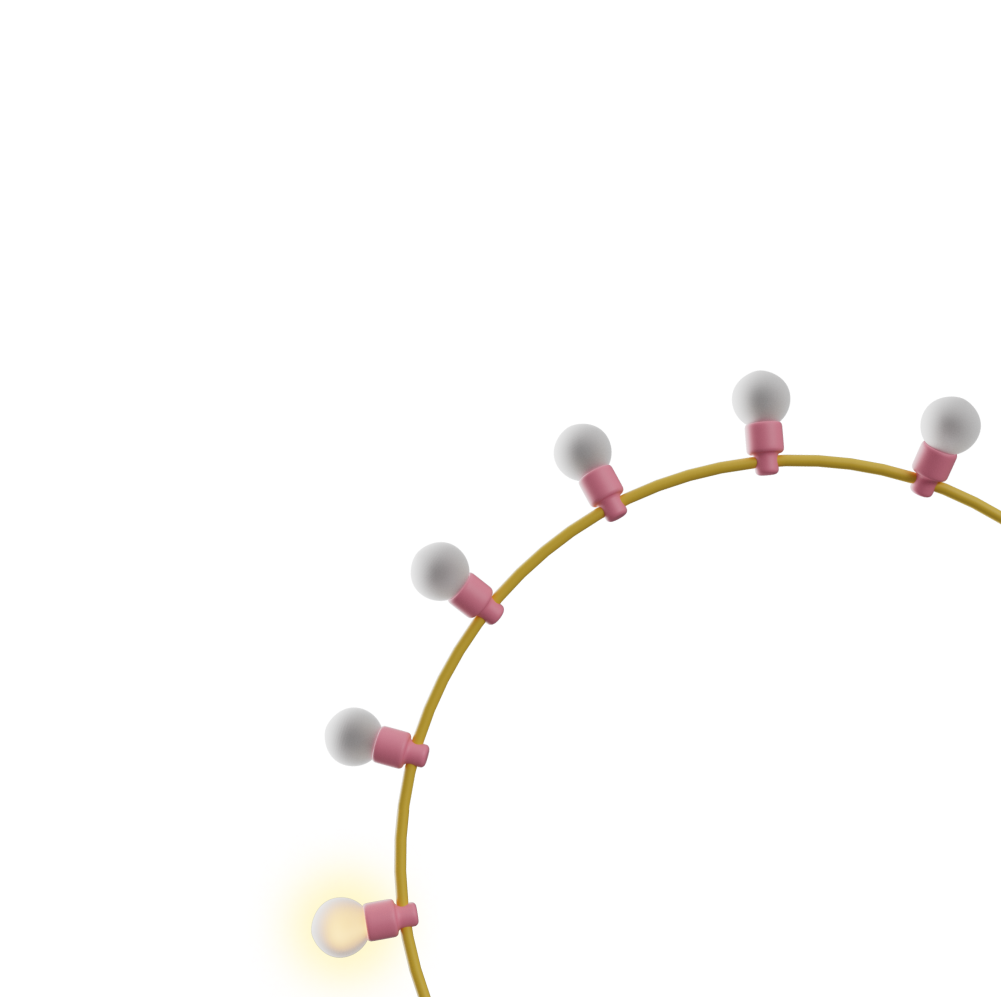
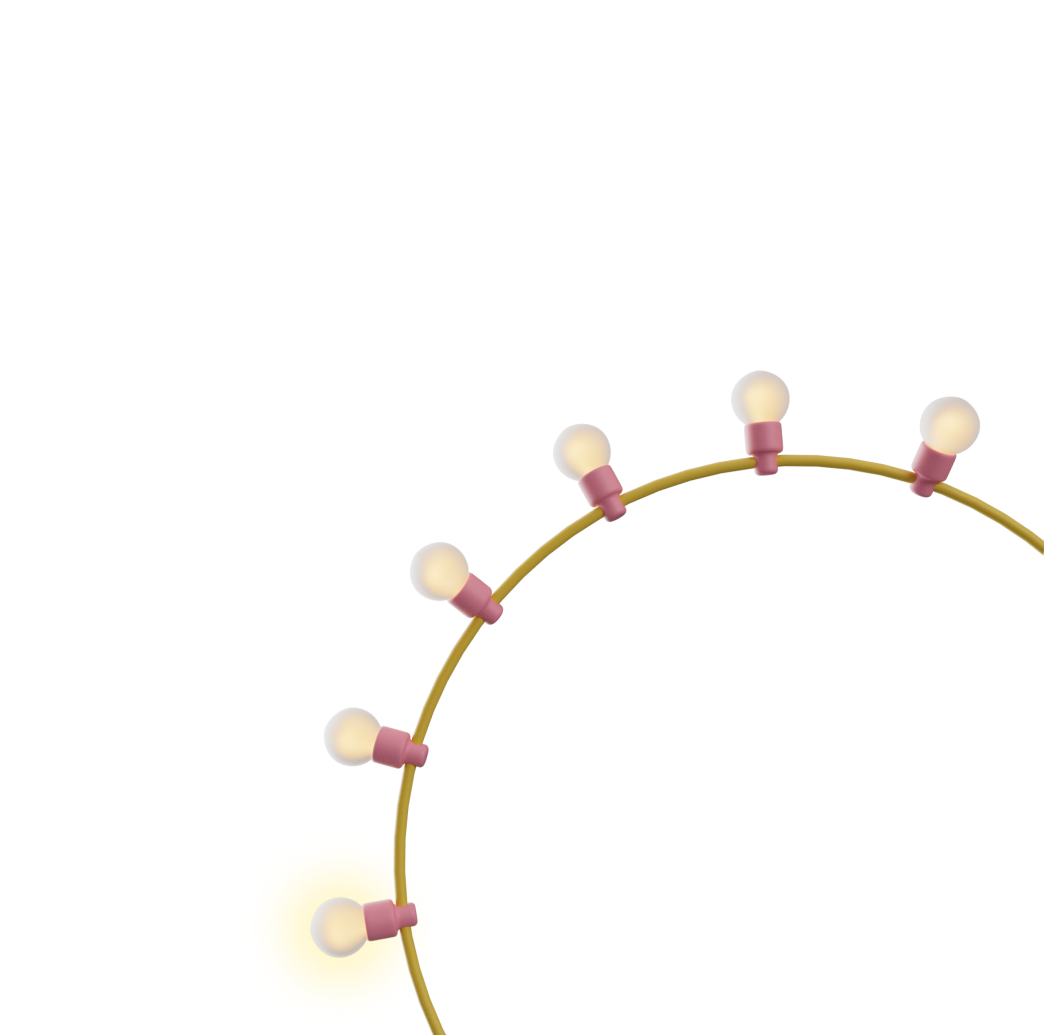
поправил/кропнул/перезалил гирлянды вокруг кнопки

Changed region(s): [[0.2787, 0.342, 0.991, 1.0], [0.96, 0.4975, 1.0, 0.5597]]

diff --git a/scss/style.scss b/scss/style.scss
@@ -933,7 +933,7 @@ h1 {
     height: calc(729/1117*100dvh);
     border-radius: 50%;
     border: 1px solid #b4afff;
-    background: #9b94ff;
+    background: #9b94ff;    
     z-index: 2;
     cursor: pointer;
 }
@@ -986,6 +986,7 @@ h1 {
     border-radius: 50%;
     border: 1px solid #b4afff;
     background: #9b94ff;
+    box-shadow: 0px 0px 184px 0px #b43cff23;
     z-index: 2;
     cursor: pointer;
     pointer-events: auto;
@@ -1097,12 +1098,12 @@ h1 {
 }
 
 .gerland {
-    bottom: calc(0/1117*100dvh);
-    right: calc(0/1117*100dvh);
+    bottom: calc(-40/1117*100dvh);
+    right: calc(-47/1117*100dvh);
     position: fixed;
     display: block;
-    width: calc(1007/1117*100dvh);
-    height: calc(1007/1117*100dvh);
+    width: calc(1044/1117*100dvh);
+    height: calc(10035/1117*100dvh);
     background: url("../img/light_2_off.png") bottom right no-repeat;
     background-size: contain;
     z-index: 3;

diff --git a/css/style.css b/css/style.css
@@ -1134,6 +1134,8 @@ h1 {
   border-radius: 50%;
   border: 1px solid #b4afff;
   background: #9b94ff;
+  -webkit-box-shadow: 0px 0px 184px 0px rgba(180, 60, 255, 0.137254902);
+          box-shadow: 0px 0px 184px 0px rgba(180, 60, 255, 0.137254902);
   z-index: 2;
   cursor: pointer;
   pointer-events: auto;
@@ -1245,12 +1247,12 @@ h1 {
 }
 
 .gerland {
-  bottom: 0dvh;
-  right: 0dvh;
+  bottom: -3.5810205909dvh;
+  right: -4.2076991943dvh;
   position: fixed;
   display: block;
-  width: 90.1521933751dvh;
-  height: 90.1521933751dvh;
+  width: 93.4646374217dvh;
+  height: 898.3885407341dvh;
   background: url("../img/light_2_off.png") bottom right no-repeat;
   background-size: contain;
   z-index: 3;

diff --git a/scss/dist/style.css b/scss/dist/style.css
@@ -970,6 +970,7 @@ h1 {
   border-radius: 50%;
   border: 1px solid #b4afff;
   background: #9b94ff;
+  box-shadow: 0px 0px 184px 0px #b43cff23;
   z-index: 2;
   cursor: pointer;
   pointer-events: auto;
@@ -1075,12 +1076,12 @@ h1 {
 }
 
 .gerland {
-  bottom: calc(0/1117*100dvh);
-  right: calc(0/1117*100dvh);
+  bottom: calc(-40/1117*100dvh);
+  right: calc(-47/1117*100dvh);
   position: fixed;
   display: block;
-  width: calc(1007/1117*100dvh);
-  height: calc(1007/1117*100dvh);
+  width: calc(1044/1117*100dvh);
+  height: calc(10035/1117*100dvh);
   background: url("../img/light_2_off.png") bottom right no-repeat;
   background-size: contain;
   z-index: 3;
